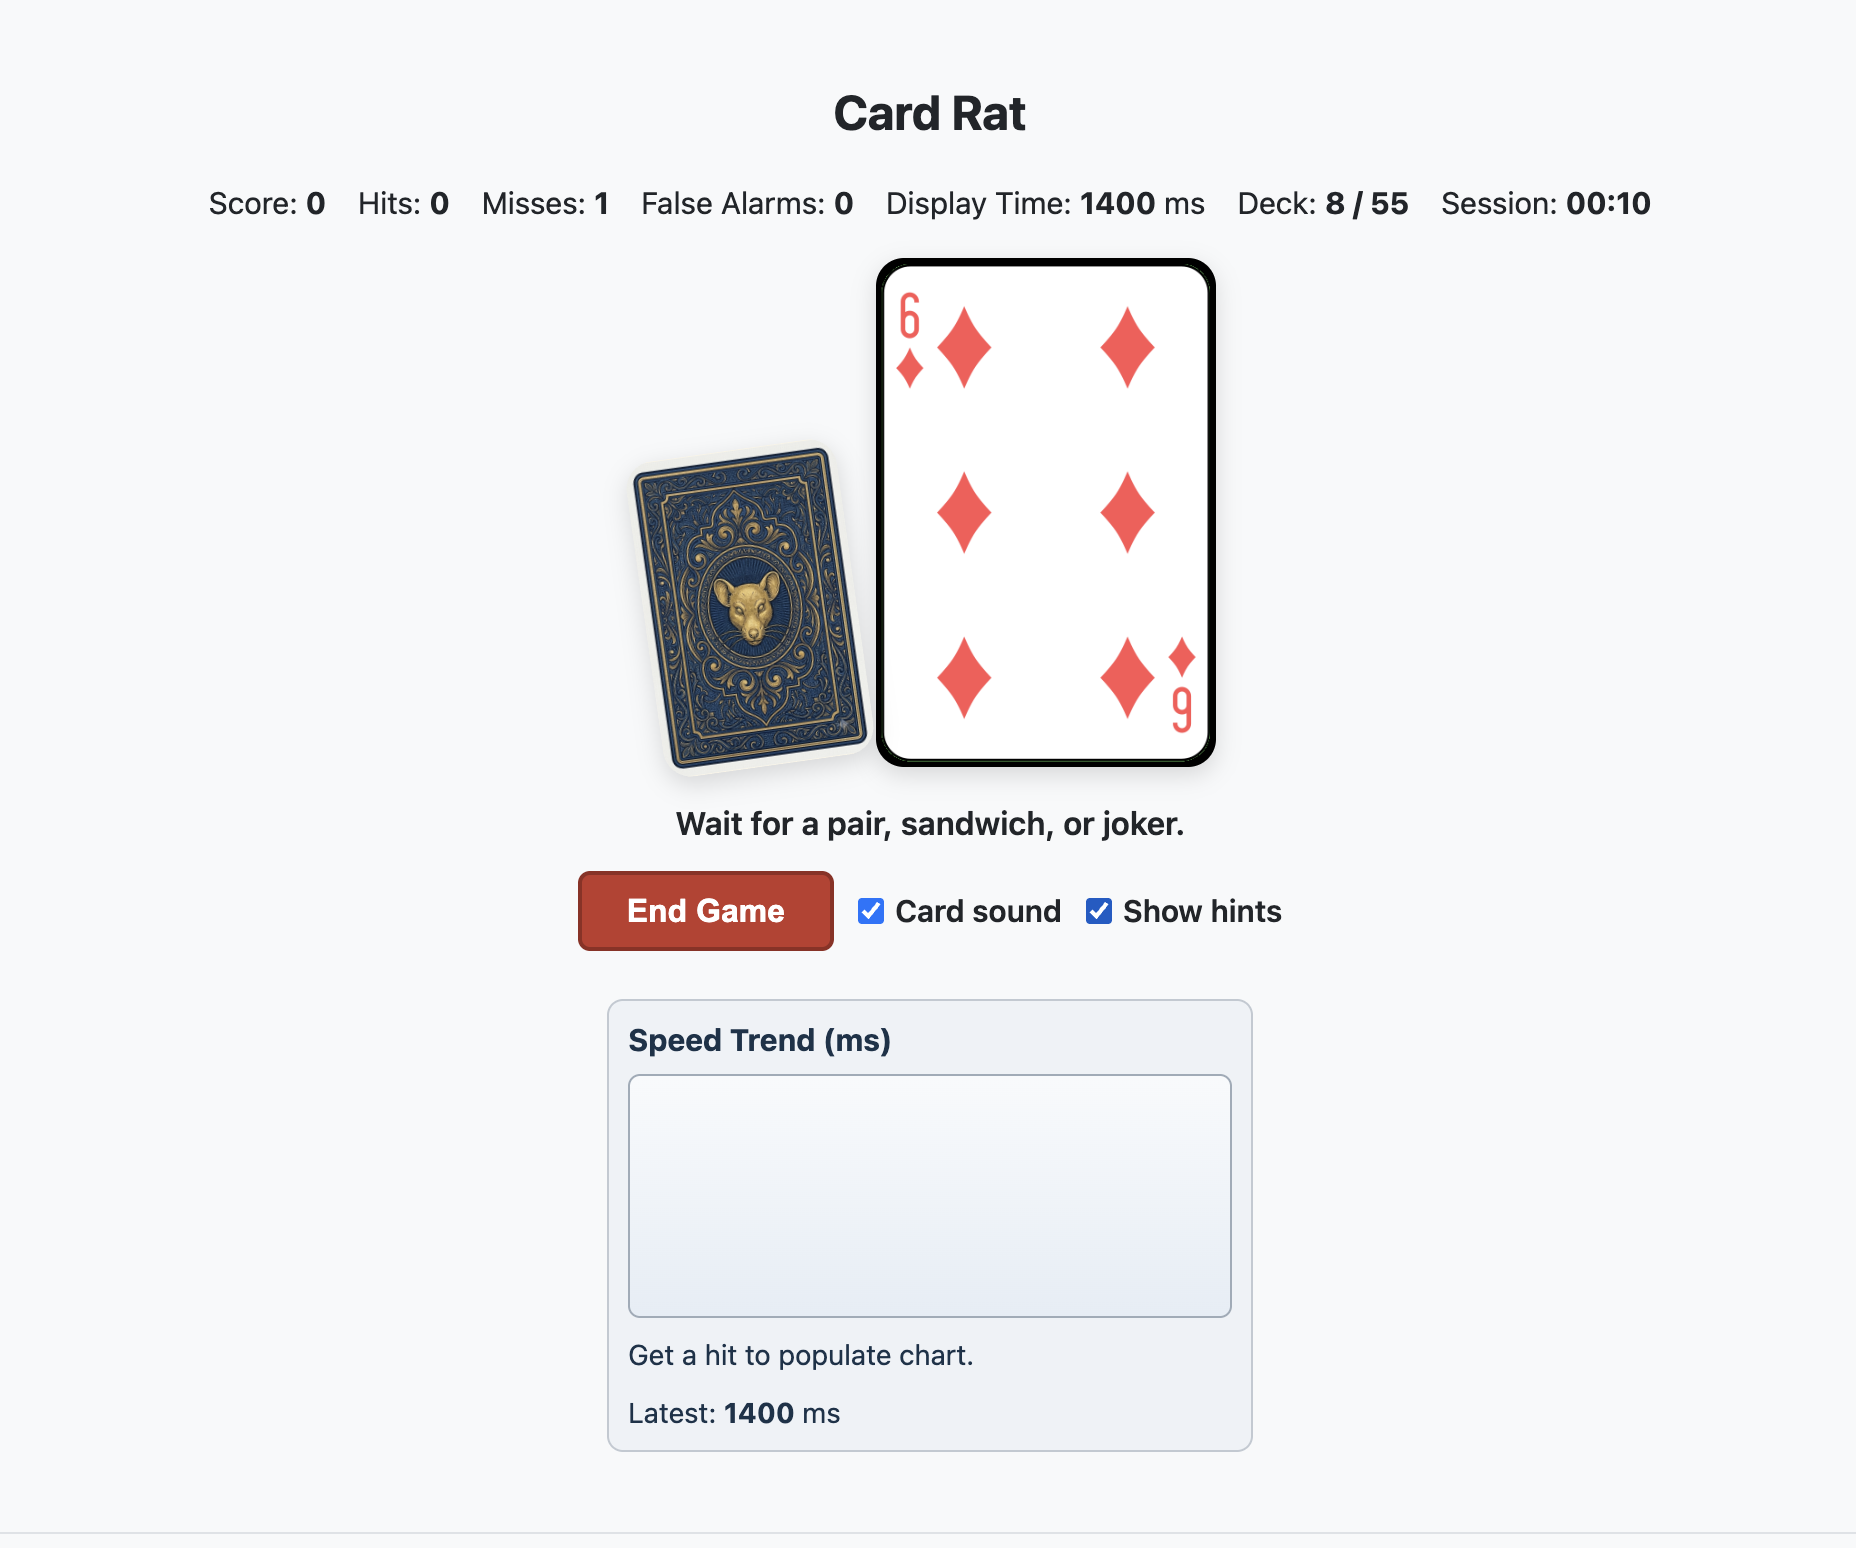
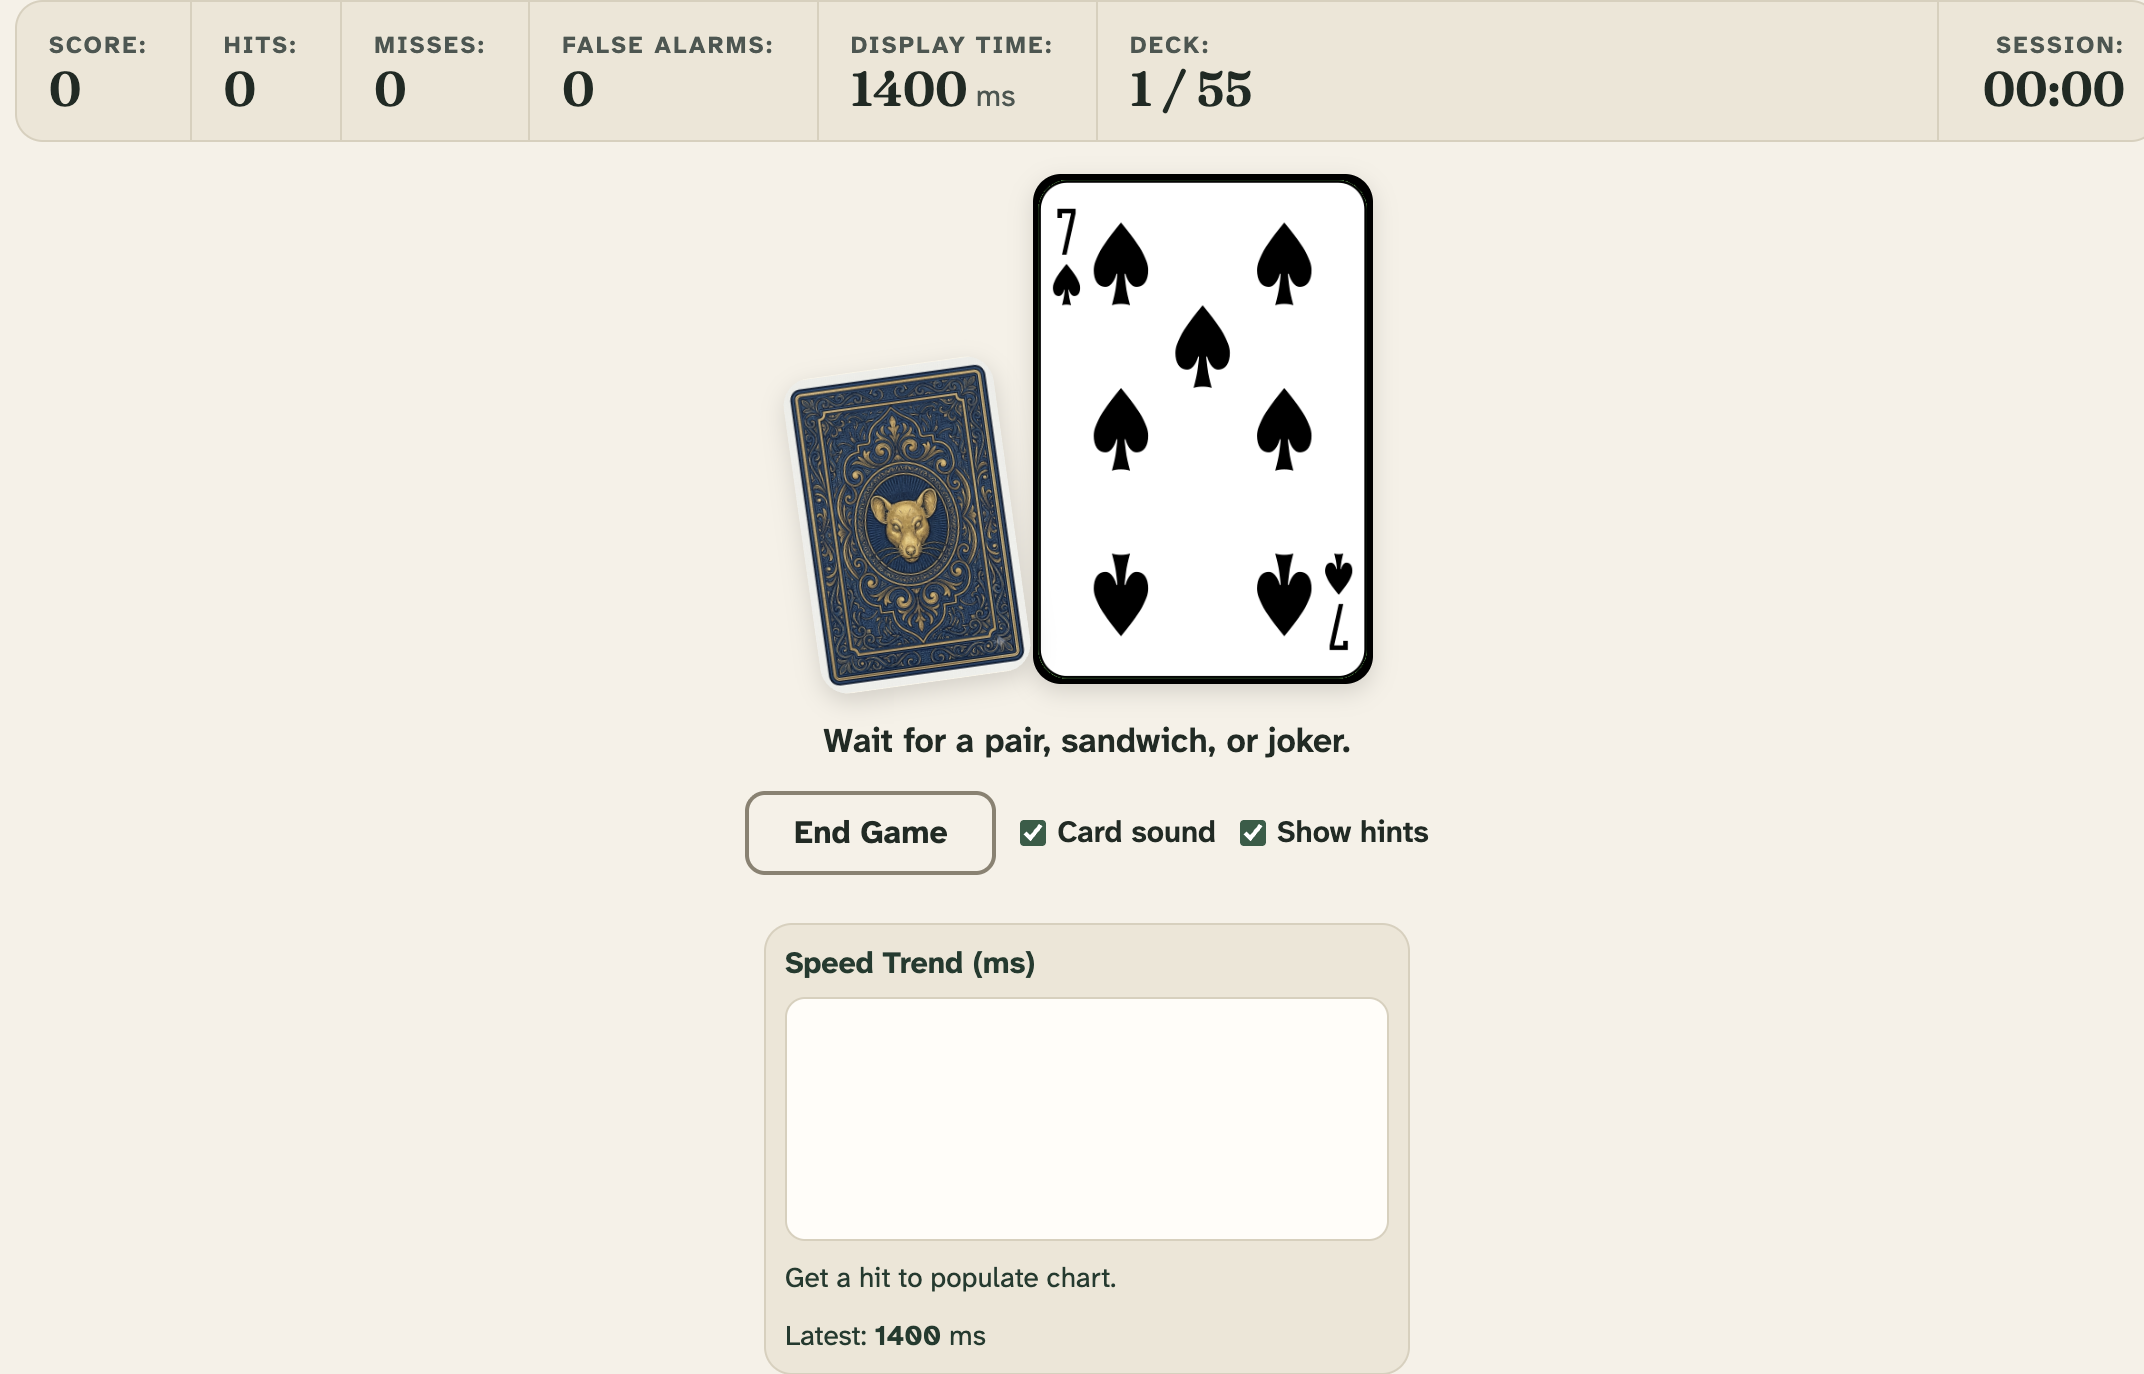
Retake Card Rat's tutorial screenshot
The old 1856x1548 screenshot showed the previous design with an
arbitrary crop. The new one follows the shared standard: a 1280x880
window, clipped to #cr-game-area, with a card dealt. The stats and
controls callouts are remeasured as percentages of that clip, with
enough padding that their borders clear the labels at the slide's
scale. The image corner now uses --radius-lg, as Fast Piggie's does.

Signed: Claude Code for Aaron Crosman

Changed region(s): [[0.0, 0.0, 1.0, 1.0]]

diff --git a/app/games/card-rat/style.css b/app/games/card-rat/style.css
@@ -109,7 +109,7 @@
   display: block;
   width: 100%;
   max-width: 540px;
-  border-radius: 12px;
+  border-radius: var(--radius-lg);
   border: 1px solid var(--border-color);
 }
 
@@ -131,17 +131,17 @@
 }
 
 .card-rat__tutorial-highlight--stats {
-  left: 7.5%;
-  top: 9%;
-  width: 84.5%;
-  height: 8%;
+  left: 0%;
+  top: 0%;
+  width: 100%;
+  height: 12%;
   color: var(--callout-1);
 }
 
 .card-rat__tutorial-highlight--controls {
-  left: 29%;
-  top: 55%;
-  width: 40%;
-  height: 9%;
+  left: 32.9%;
+  top: 55.7%;
+  width: 34.1%;
+  height: 9.6%;
   color: var(--callout-3);
 }
